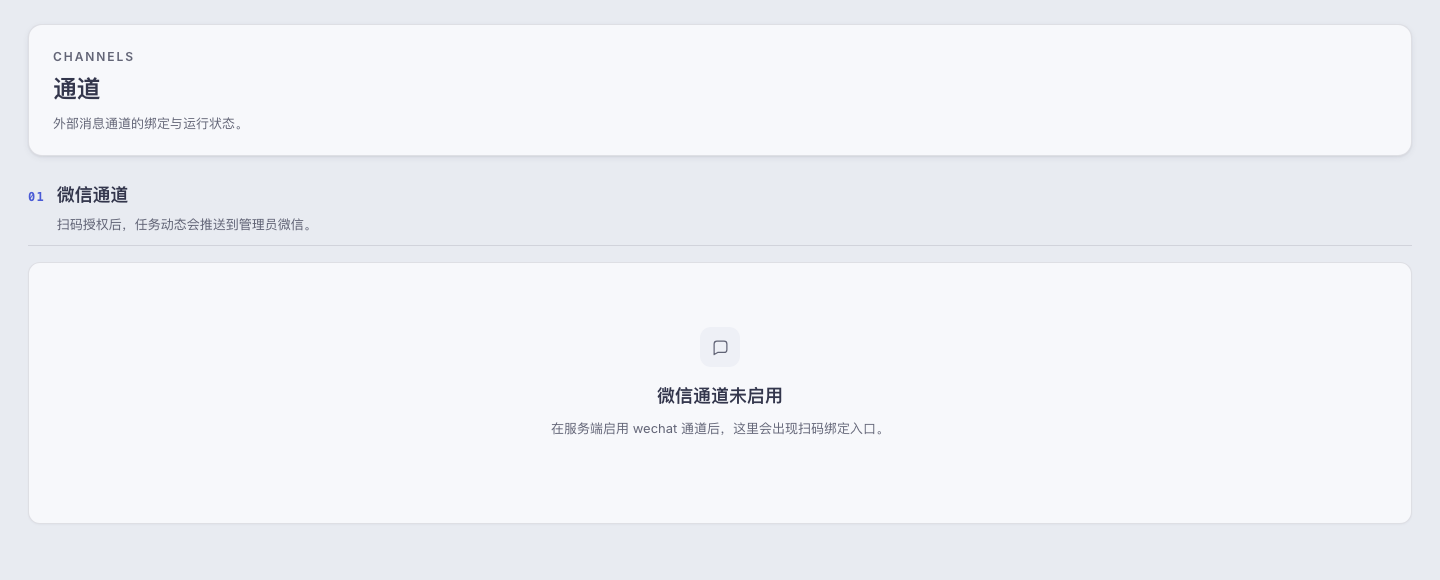
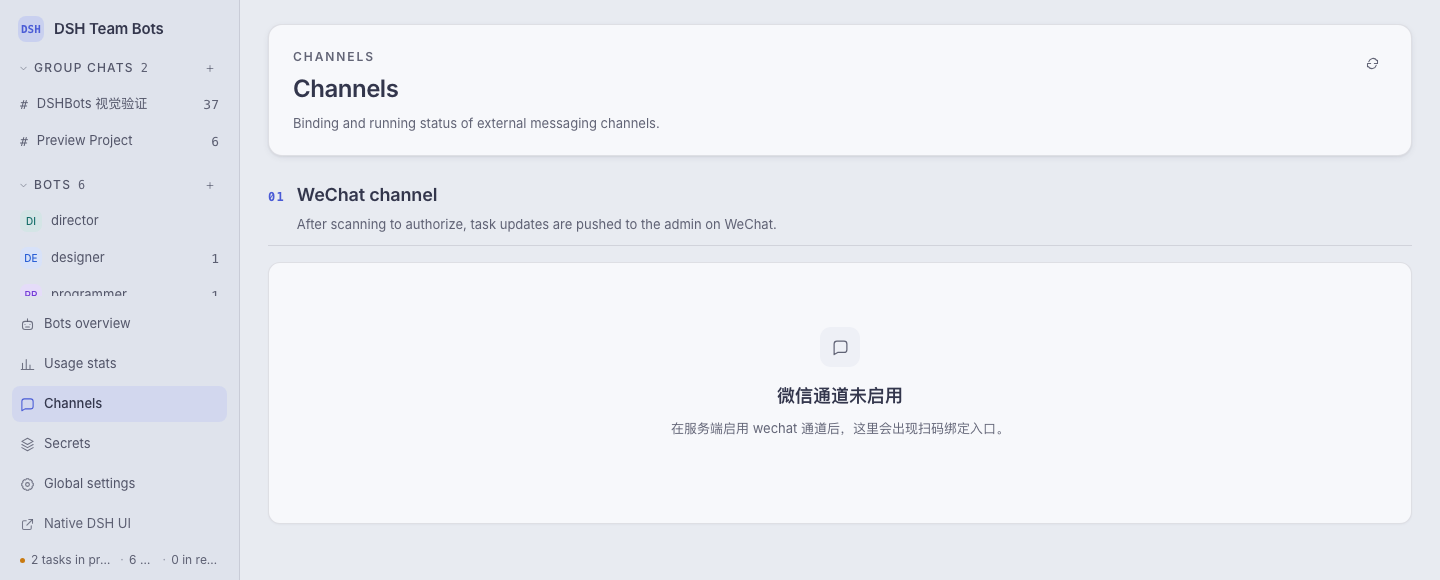
refactor(ui): 四个一级页移除冗余 topbar，刷新按钮并入页头操作区 (DSHBOTS-216)
- isGlobal 四页（用量全局/通道/密钥/全局配置）整块不渲染 topbar，页头由 global-head 唯一承担；总览bots 与其余视图 topbar 不动，tabbar 不动
- 新增 page-shell refreshAction()：刷新按钮并入 .global-head-actions（用量页仅全局口径并入，domain/solo 顶栏保留）
- 页壳全局页无横幅时 main-head 整块不渲染，避免空粘头残影
- 重截 docs/assets 四张 *-redesign.png；ui/app.js 798 行守住 <800

diff --git a/ui/app.ts b/ui/app.ts
@@ -14,6 +14,7 @@ import { renderTasks, renderTerminal, renderBotsOverview, renderMembers, renderS
 import { overlayOpen, markAppRenderPending, renderModalLayer, ensureModalRoot, noteModalScroll, flushAppRender } from './modules/modal-layer.js'
 import { openModal, closeModal, openTask, openSkillDetail, openTrajectory, openBot, reloadTaskModal, bindProposalForm, updateEffortOptions, updateFallbackEffortOptions, trapModalFocus, renderDirPicker, closeDirPicker, parseFallbackFields, normalizeTimeBudgetMinutes, modelOptions, effortOptions, fallbackModelOptions, renderPriceCard } from './modules/modal-forms.js'
 import { activeTypingRuns, typingRows, chatKey, mergedChatMessages, canLoadOlder, loadOlderButton, loadOlderMessages, renderChatMembersCard, renderChat, DISPATCH_LIST_LIMIT, dispatchListNote, dispatchTaskRow, dispatchRunRow, renderSoloChat, loadSoloDetail, renderSoloConfig } from './modules/chat.js'
+import { refreshAction } from './modules/page-shell.js'
 import { handleBoardAction } from './modules/events-board.js'
 import './modules/events-click.js'
 import './modules/events-submit.js'
@@ -216,10 +217,9 @@ function runKindLabel(kind) {
 
 function renderShell() {
   const data = state.data
-  const solo = inSoloContext()
+  const inSolo = inSoloContext()
   // 场景分支：单聊上下文无项目域；群聊上下文 = 当前项目。
-  const project = solo ? null : activeProject()
-  const pending = pendingProposals()
+  const project = inSolo ? null : activeProject()
   // 跨项目待审（DSHBOTS-102）：state 顶层全局口径，与当前项目解耦。
   const pendingApprovals = data?.pendingApprovals ?? { count: 0, items: [] }
   // 跨项目待答提问（DSHBOTS-116）：与审批同口径，顶层全局聚合。
@@ -228,11 +228,12 @@ function renderShell() {
   const activeTasks = Number(data?.activeTasks ?? 0)
   const projectRunning = project?.stats?.running ?? 0
   const tokenTotal = usageTotals('project').totalTokens ?? 0
-  // 全局一级视图（DSHBOTS-197 起含迁移落点页 通道/密钥）：无项目 tab 导航，侧栏直达。
+  // 全局一级视图（DSHBOTS-197 起含迁移落点页 通道/密钥）：无项目 tab 导航，侧栏直达。四页页壳页（DSHBOTS-216）冗余 topbar 不渲染，页头由 global-head 唯一承担（总览bots 仍走 topbar）；无横幅时 main-head 整块不渲染，避免空粘头残影。
   const isGlobal = GLOBAL_VIEWS.has(state.view) || (state.view === 'usage' && usageMode() === 'global')
+  const shellGlobalPage = isGlobal && state.view !== 'bots-overview'
+  const showMainHead = !shellGlobalPage || approvalBannerView(pendingApprovals) !== '' || questionBannerView(pendingQuestions) !== ''
   // 单聊是独立于项目的 1V1 上下文：对话/配置/技能/记忆/进化/用量共用一套导航。
   const isSolo = state.view === 'chat' && state.chatMode === 'solo'
-  const inSolo = inSoloContext()
   const soloBot = inSolo ? botById(state.soloBotId) : null
   const viewTitle = isSolo
     ? (soloBot ? t('viewTitle.dispatch', { name: soloBot.name }) : t('viewTitle.dispatchPlain'))
@@ -250,7 +251,6 @@ function renderShell() {
     : state.view === 'channel' ? t('viewTitle.channel')
     : state.view === 'secrets' ? t('viewTitle.secrets')
     : t('viewTitle.projectSettings')
-  const title = viewTitle
   const spec = VIEW_ACTION[state.view]
   const cardOwnsPrimary = state.view === 'evolution' && pendingProposals() > 0
   const primary = (!project && !inSolo) || !spec ? '' : spec.submit
@@ -357,20 +357,20 @@ function renderShell() {
             <span class="sidebar-meta-sep">·</span>
             <span>${t('sidebar.botsCount', { count: activeBots.length })}</span>
             <span class="sidebar-meta-sep">·</span>
-            <span>${t('sidebar.pendingReviews', { count: pending })}</span>
+            <span>${t('sidebar.pendingReviews', { count: pendingProposals() })}</span>
           </div>
         </div>
       </aside>
       <main class="main">
-        <div class="main-head">
+        ${showMainHead ? `<div class="main-head">
         ${approvalBannerView(pendingApprovals)}
         ${questionBannerView(pendingQuestions)}
-        <header class="topbar">
+        ${shellGlobalPage ? '' : `<header class="topbar">
           <div class="topbar-title">
             ${eyebrow ? `<div class="topbar-eyebrow">${eyebrow}</div>` : ''}
-            <h1>${esc(title)}</h1>
+            <h1>${esc(viewTitle)}</h1>
           </div>
-          ${isGlobal || solo || !project ? '' : `<div class="topbar-meta">
+          ${isGlobal || inSolo || !project ? '' : `<div class="topbar-meta">
             <span><b>${project?.stats?.openTasks ?? 0}</b> ${project?.stats?.openTasks === 1 ? t('topbar.taskOne') : t('topbar.taskMany')}</span>
             <span class="sep"></span>
             <span><b>${projectRunning}</b> ${projectRunning === 1 ? t('topbar.runningOne') : t('topbar.runningMany')}</span>
@@ -379,9 +379,9 @@ function renderShell() {
           </div>`}
           <div class="topbar-actions">
             ${primary}
-            <button class="btn icon" data-action="refresh" title="${t('topbar.refresh')}" aria-label="${t('topbar.refresh')}">${icon('refresh')}</button>
+            ${refreshAction()}
           </div>
-        </header>
+        </header>`}
         ${isGlobal ? '' : `<div class="tabbar" role="tablist" aria-label="${t('topbar.mainNav')}">
           ${(inSolo ? SOLO_NAV : NAV).map(([key, label]) => {
             const dot = tabDot(key)
@@ -391,7 +391,7 @@ function renderShell() {
             return `<button class="tab ${active ? 'active' : ''}" role="tab" id="tab-${key}" aria-controls="main-content" aria-selected="${active}" tabindex="${active ? '0' : '-1'}" data-action="nav" data-view="${key}"${tabMode ? ` data-usage-mode="${tabMode}"` : ''}>${t(inSolo && key === 'chat' ? 'nav.soloChat' : 'nav.' + key)}${dot ? `<span class="red-dot" title="${t('topbar.attention')}"></span>` : ''}</button>`
           }).join('')}
         </div>`}
-        </div>
+        </div>` : ''}
         <section class="content" id="main-content" role="tabpanel" tabindex="-1"${isGlobal ? '' : ` aria-labelledby="tab-${state.view}"`}>
           ${renderView()}
         </section>

diff --git a/ui/modules/global-pages.ts b/ui/modules/global-pages.ts
@@ -6,7 +6,7 @@ import { state } from './state.js'
 import { icon } from './icons.js'
 import { t } from './i18n.js'
 import { attr, esc, formatTime } from './util.js'
-import { pageHead, pageNav, pageSection, pageShell, slot } from './page-shell.js'
+import { pageHead, pageNav, pageSection, pageShell, refreshAction, slot } from './page-shell.js'
 
 // 微信通道卡（自配置页迁入）：绑定状态、扫码授权、验证码与退出。
 function wechatCard() {
@@ -120,7 +120,7 @@ function secretAddCard(projects) {
 export function renderChannel() {
   const card = wechatCard()
   return pageShell(
-    pageHead('CHANNELS', t('viewTitle.channel'), t('channel.desc')),
+    pageHead('CHANNELS', t('viewTitle.channel'), t('channel.desc'), refreshAction()),
     '',
     [pageSection({
       index: '01', id: 'c-wechat', title: t('channel.sectionWechat'), desc: t('channel.sectionWechatDesc'),
@@ -135,7 +135,7 @@ export function renderSecretsPage() {
   const requests = state.data?.secretRequests ?? []
   const projects = (state.data?.projects ?? []).filter(project => project.status === 'active')
   return pageShell(
-    pageHead('SECRETS', t('viewTitle.secrets'), t('secrets.desc')),
+    pageHead('SECRETS', t('viewTitle.secrets'), t('secrets.desc'), refreshAction()),
     pageNav([
       { id: 's-requests', label: t('secrets.sectionRequests') },
       { id: 's-list', label: t('secrets.sectionList') },

diff --git a/ui/modules/page-shell.ts b/ui/modules/page-shell.ts
@@ -1,3 +1,6 @@
+import { icon } from './icons.js'
+import { t } from './i18n.js'
+
 // page-shell.ts —— 四个一级页（用量统计 / 通道 / 密钥管理 / 全局配置）共用的控制台页壳。
 // 只负责结构：页头（eyebrow + 标题 + 口径 + 操作区）、分组导航、序号分组、12 列槽位网格。
 // 不取数、不绑事件；卡片内容仍由各页自己渲染，保证四页的信息架构与视觉语言一致。
@@ -12,6 +15,13 @@ export function pageHead(eyebrow, title, desc, actions = '') {
         </div>
         ${actions ? `<div class="global-head-actions">${actions}</div>` : ''}
       </header>`
+}
+
+// 刷新按钮：全局四页并入页头操作区（global-head-actions），其余视图仍由 topbar-actions 摆放。
+// 只产结构；点击走 app 壳的 data-action 委托，与页壳「不绑事件」口径一致。
+export function refreshAction() {
+  const label = t('topbar.refresh')
+  return `<button class="btn icon" data-action="refresh" title="${label}" aria-label="${label}">${icon('refresh')}</button>`
 }
 
 // 分组导航：仅当页面有 2 个及以上分组时出现，锚点命中高亮由 CSS :target 负责。

diff --git a/ui/modules/settings.ts b/ui/modules/settings.ts
@@ -6,7 +6,7 @@ import { icon } from './icons.js'
 import { activeBots, activeProject, attr, botById, esc, pathCode, tildePath } from './util.js'
 import { notifyToggleView } from './cards.js'
 import { usageBotRow, usageCurrency, usageDayPanel, usageDayTitle, usageListPanel, usageMetricCards, usageModelPanel, usagePageHead, usageProjectRow, usageRunRow, usageSection, usageSnapshot, usageWindowText } from './usage.js'
-import { pageHead, pageNav, pageSection, pageShell, slot } from './page-shell.js'
+import { pageHead, pageNav, pageSection, pageShell, refreshAction, slot } from './page-shell.js'
 import { refresh, noProject } from '../app.js'
 import { renderPriceCard } from './modal-forms.js'
 
@@ -356,7 +356,7 @@ function renderGlobal() {
   const uiLanguage = data.settings?.ui_language || 'auto'
   const notify = notifyToggleView()
   return pageShell(
-    pageHead('GLOBAL CONFIGURATION', t('global.title'), t('global.desc')),
+    pageHead('GLOBAL CONFIGURATION', t('global.title'), t('global.desc'), refreshAction()),
     pageNav([
       { id: 'g-pref', label: t('global.groupPref') },
       { id: 'g-runtime', label: t('global.groupRuntime') },

diff --git a/ui/modules/usage.ts b/ui/modules/usage.ts
@@ -7,7 +7,7 @@ import { CURRENCY_SYMBOL, attr, botById, costValue, esc, formatCost, formatNumbe
 import { api } from './api.js'
 import { t } from './i18n.js'
 import { renderUsageGlobal, renderUsageDomain, renderUsageSolo } from './settings.js'
-import { pageHead, pageSection } from './page-shell.js'
+import { pageHead, pageSection, refreshAction } from './page-shell.js'
 import { render } from '../app.js'
 
 // 用量时间窗（DSHBOTS-121）：今日 / 7 日 / 30 日 / 至今 四档。
@@ -336,6 +336,7 @@ function usagePageHead(usage, scopeText, exportLabel = '') {
       </div>
       <div class="btn-row">
         <button class="btn" data-action="export-usage-csv">${icon('download')}${t('usage.exportCsv')}${exportLabel ? `（${esc(exportLabel)}）` : ''}</button>
+        ${usageMode() === 'global' ? refreshAction() : ''}
       </div>`
   return pageHead('USAGE', usageViewTitle(), t('usage.headDesc', { scope: scopeText, window: windowText, loading: usageWindowLoading ? t('usage.loading') : '' }), actions)
 }
